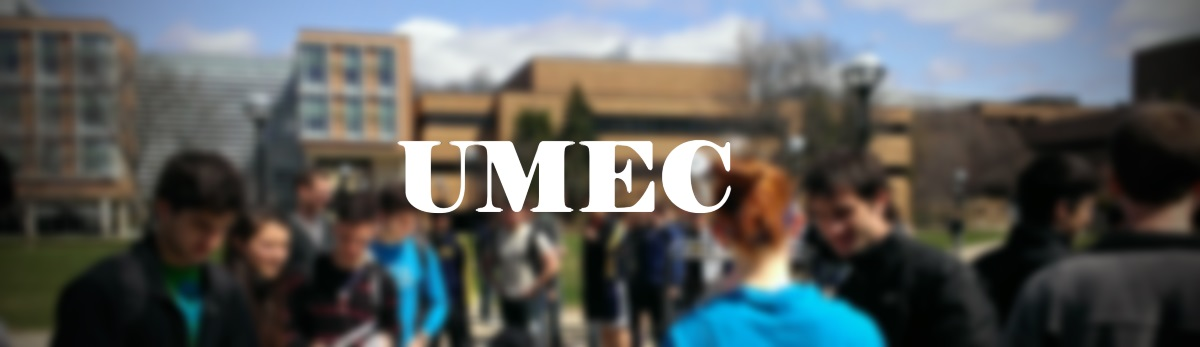
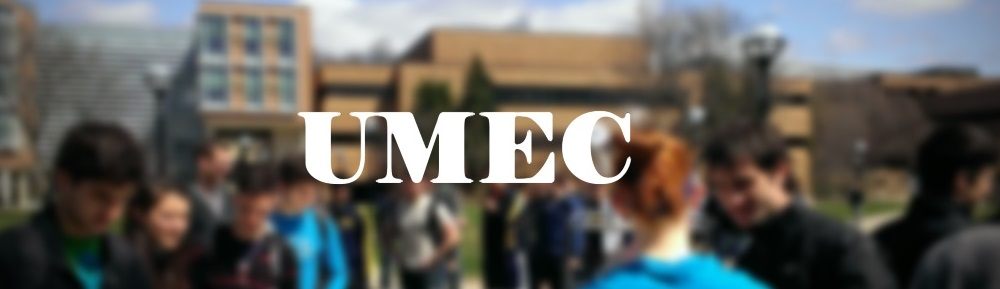
Tweak css and img
Image height is reduced by 15%

Initial Text after image closer to image.

All this in an attempt to have more text above the fold for those with
small screen resolutions.

diff --git a/css/main.css b/css/main.css
@@ -9,12 +9,8 @@ body {
 }
 
 div.main {
-    max-width: 1200px;
+    max-width: 1000px;
     margin: 0 auto;    
-}
-
-div.content {
-    margin: 2em;
 }
 
 li {
@@ -34,7 +30,7 @@ li li:last-child {
 }
 
 div.content {
-    margin: 2em;
+    margin: 0.5em 2em 2em 2em;
 }
 
 div.footer-container {
